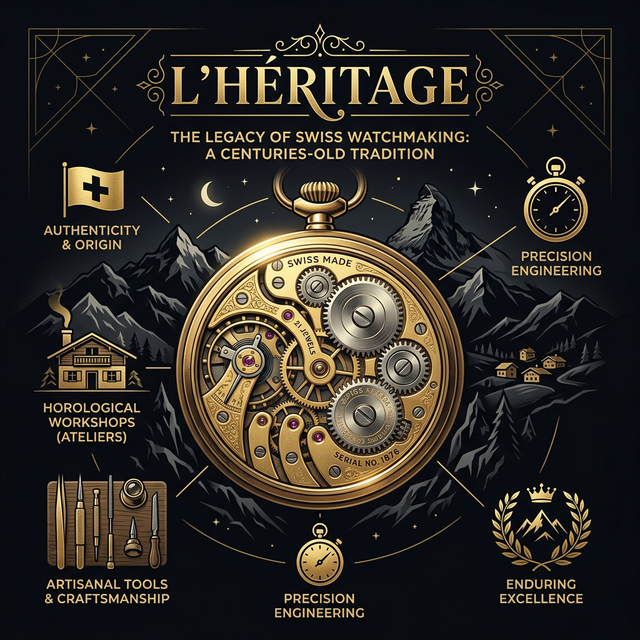
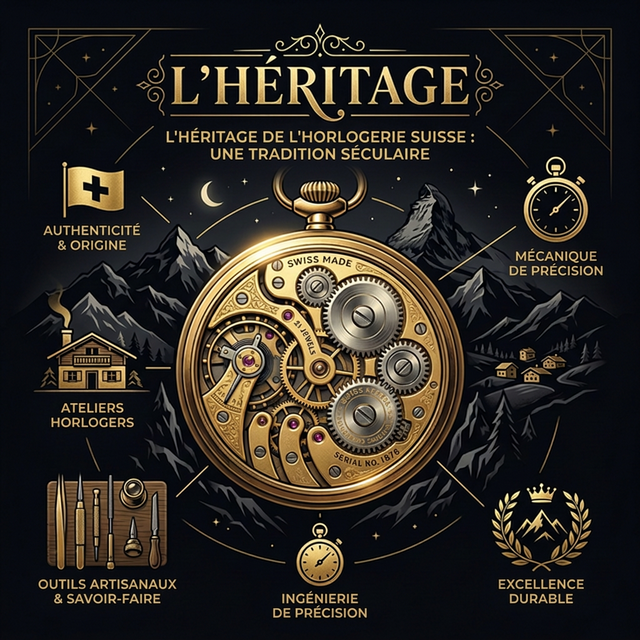
feat: ajout du bouton fermer, infographie fr ep1 et suppression liens ausha

diff --git a/src/data.js b/src/data.js
@@ -1,4 +1,4 @@
-// Auto-generated by sync-podcasts.cjs — 2026-03-09T06:12:18.926Z
+// Auto-generated by sync-podcasts.cjs — 2026-03-09T11:44:37.857Z
 export const podcastMeta = {
   "title": "Le Temps Maîtrisé - Excellence opérationnelle dans l'horlogerie suisse",
   "description": "\nBienvenue dans Le Temps Maîtrisé, le podcast qui explore les coulisses de l’excellence opérationnelle dans l’horlogerie suisse.\nChaque épisode vous plonge au cœur des ateliers, des méthodes Lean et des outils qualité qui façonnent la précision et la beauté du temps.\nDe la gestion du flux au standard de travail, en passant par le Kaizen et la digitalisation, découvrez comment les manufactures allient tradition, innovation et performance durable.\nUn guide pédagogique et inspirant pour tous ceux qui veulent comprendre comment se fabrique la maîtrise du temps.\nHébergé par Ausha. Visitez ausha.co/fr/politique-de-confidentialite pour plus d'informations.",
@@ -13,9 +13,8 @@ export const podcasts = [
     "title": "Épisode 1 – L’héritage de l’horlogerie suisse",
     "date": "Thu, 30 Oct 2025 18:16:23 +0000",
     "audioUrl": "https://audio.ausha.co/LjDL5C9kxN85.mp3?t=1762375076",
-    "description": "Le Temps Maîtrisé - une série de Christophe Fournier dédiée à l'excellence opérationnelle dans l'horlogerie suisse. Chaque épisode explore les outils du Lean, la qualité et la précision, appliqués à un univers où le temps se mesure au micron.\n\n\nUn podcast pour celles et ceux qui veulent comprendre comment tradition et innovation se conjuguent dans la quête du mouvement parfait.\n\nHébergé par Ausha. Visitez ausha.co/politique-de-confidentialite pour plus d'informations.",
+    "description": "Dans cet épisode introductif, nous explorons comment les valeurs historiques de la haute horlogerie suisse posent les bases de l'excellence opérationnelle moderne.",
     "duration": "14:24",
-    "link": "https://podcast.ausha.co/excellence-operationnelle/new-episode-of-10-30-7-13-pm",
     "image": "/infographics/ep1.png",
     "keywords": [
       "temps",
@@ -40,9 +39,8 @@ export const podcasts = [
     "title": "Épisode 2 : Qu’est-ce que l’excellence opérationnelle ?",
     "date": "Fri, 31 Oct 2025 14:54:34 +0000",
     "audioUrl": "https://audio.ausha.co/aO1X5Uxpjna1.mp3?t=1762507980",
-    "description": "Le Temps Maîtrisé - une série de Christophe Fournier dédiée à l'excellence opérationnelle dans l'horlogerie suisse. Chaque épisode explore les outils du Lean, la qualité et la précision, appliqués à un univers où le temps se mesure au micron.\n\n\nUn podcast pour celles et ceux qui veulent comprendre comment tradition et innovation se conjuguent dans la quête du mouvement parfait.\n\nHébergé par Ausha. Visitez ausha.co/politique-de-confidentialite pour plus d'informations.",
+    "description": "Qu'est-ce que l'excellence opérationnelle ? Découvrez les fondamentaux de cette philosophie visant l'amélioration continue et la maximisation de la valeur.",
     "duration": "16:49",
-    "link": "https://podcast.ausha.co/excellence-operationnelle/episode-2-qu-est-ce-que-l-excellence-operationnelle",
     "image": "/infographics/ep2.png",
     "keywords": [
       "temps",
@@ -67,9 +65,8 @@ export const podcasts = [
     "title": "Épisode 3 : La chasse au gaspillage – les 7 mudas",
     "date": "Fri, 31 Oct 2025 14:56:14 +0000",
     "audioUrl": "https://audio.ausha.co/ewZLXIppl7ZV.mp3?t=1763466071",
-    "description": "Le Temps Maîtrisé - une série de Christophe Fournier dédiée à l'excellence opérationnelle dans l'horlogerie suisse. Chaque épisode explore les outils du Lean, la qualité et la précision, appliqués à un univers où le temps se mesure au micron.\n\n\nUn podcast pour celles et ceux qui veulent comprendre comment tradition et innovation se conjuguent dans la quête du mouvement parfait.\n\nHébergé par Ausha. Visitez ausha.co/politique-de-confidentialite pour plus d'informations.",
+    "description": "Découvrez les 7 Mudas du Lean : les différentes formes de gaspillages dans les processus et comment les chasser efficacement dans un atelier.",
     "duration": "12:53",
-    "link": "https://podcast.ausha.co/excellence-operationnelle/episode-3-la-chasse-au-gaspillage-les-7-mudas",
     "image": "/infographics/ep3.png",
     "keywords": [
       "temps",
@@ -94,9 +91,8 @@ export const podcasts = [
     "title": "Épisode 4 : Le 5S – l’ordre qui libère",
     "date": "Fri, 31 Oct 2025 15:11:49 +0000",
     "audioUrl": "https://audio.ausha.co/J2NYaij31OxV.mp3?t=1764332841",
-    "description": "Le Temps Maîtrisé - une série de Christophe Fournier dédiée à l'excellence opérationnelle dans l'horlogerie suisse. Chaque épisode explore les outils du Lean, la qualité et la précision, appliqués à un univers où le temps se mesure au micron.\n\n\nUn podcast pour celles et ceux qui veulent comprendre comment tradition et innovation se conjuguent dans la quête du mouvement parfait.\n\nHébergé par Ausha. Visitez ausha.co/politique-de-confidentialite pour plus d'informations.",
+    "description": "Le 5S expliquée en détails : Trier, Ranger, Nettoyer, Standardiser, Respecter. Comment un atelier en ordre libère l'esprit et augmente la productivité.",
     "duration": "16:52",
-    "link": "https://podcast.ausha.co/excellence-operationnelle/episode-4-le-5s-l-ordre-qui-libere",
     "image": "/infographics/ep4.png",
     "keywords": [
       "temps",
@@ -121,9 +117,8 @@ export const podcasts = [
     "title": "Épisode 5 : Le standard de travail – la qualité répétable",
     "date": "Fri, 31 Oct 2025 15:13:33 +0000",
     "audioUrl": "https://audio.ausha.co/3mV5ZFMGvQp7.mp3?t=1761923623",
-    "description": "Le Temps Maîtrisé - une série de Christophe Fournier dédiée à l'excellence opérationnelle dans l'horlogerie suisse. Chaque épisode explore les outils du Lean, la qualité et la précision, appliqués à un univers où le temps se mesure au micron.\n\n\nUn podcast pour celles et ceux qui veulent comprendre comment tradition et innovation se conjuguent dans la quête du mouvement parfait.\n\nHébergé par Ausha. Visitez ausha.co/politique-de-confidentialite pour plus d'informations.",
+    "description": "Le standard de travail est le point de départ de toute amélioration. Comprenez pourquoi documenter la meilleure pratique actuelle garantit une qualité répétable.",
     "duration": "13:57",
-    "link": "https://podcast.ausha.co/excellence-operationnelle/episode-5-le-standard-de-travail-la-qualite-repetable",
     "image": "/infographics/ep5.png",
     "keywords": [
       "temps",
@@ -148,9 +143,8 @@ export const podcasts = [
     "title": "Épisode 6 : Le management visuel – voir pour mieux comprendre",
     "date": "Fri, 31 Oct 2025 15:22:06 +0000",
     "audioUrl": "https://audio.ausha.co/YDvz1I88VQWk.mp3?t=1761924140",
-    "description": "Le Temps Maîtrisé - une série de Christophe Fournier dédiée à l'excellence opérationnelle dans l'horlogerie suisse. Chaque épisode explore les outils du Lean, la qualité et la précision, appliqués à un univers où le temps se mesure au micron.\n\n\nUn podcast pour celles et ceux qui veulent comprendre comment tradition et innovation se conjuguent dans la quête du mouvement parfait.\n\nHébergé par Ausha. Visitez ausha.co/politique-de-confidentialite pour plus d'informations.",
+    "description": "Le management visuel permet d'identifier les problèmes en un coup d'œil. Découvrez comment rendre l'information accessible et évidente sur le terrain.",
     "duration": "16:41",
-    "link": "https://podcast.ausha.co/excellence-operationnelle/episode-6-le-management-visuel-voir-pour-mieux-comprendre",
     "image": "/infographics/ep6.png",
     "keywords": [
       "temps",
@@ -175,9 +169,8 @@ export const podcasts = [
     "title": "Épisode 7 : Le Gemba – aller voir, écouter, comprendre",
     "date": "Fri, 31 Oct 2025 15:25:13 +0000",
     "audioUrl": "https://audio.ausha.co/PqxOXu28gmQG.mp3?t=1761924315",
-    "description": "Le Temps Maîtrisé - une série de Christophe Fournier dédiée à l'excellence opérationnelle dans l'horlogerie suisse. Chaque épisode explore les outils du Lean, la qualité et la précision, appliqués à un univers où le temps se mesure au micron.\n\n\nUn podcast pour celles et ceux qui veulent comprendre comment tradition et innovation se conjuguent dans la quête du mouvement parfait.\n\nHébergé par Ausha. Visitez ausha.co/politique-de-confidentialite pour plus d'informations.",
+    "description": "Le Gemba : là où la vraie valeur est créée. Plongez dans l'importance d'aller sur le terrain, d'écouter les opérateurs et de comprendre la réalité.",
     "duration": "12:36",
-    "link": "https://podcast.ausha.co/excellence-operationnelle/episode-7-le-gemba-aller-voir-ecouter-comprendre",
     "image": "/infographics/ep7.png",
     "keywords": [
       "temps",
@@ -202,9 +195,8 @@ export const podcasts = [
     "title": "Épisode 8 : Le Kaizen – les petites améliorations au quotidien",
     "date": "Fri, 31 Oct 2025 15:32:47 +0000",
     "audioUrl": "https://audio.ausha.co/A82aWIk4KrVr.mp3?t=1761924787",
-    "description": "Le Temps Maîtrisé - une série de Christophe Fournier dédiée à l'excellence opérationnelle dans l'horlogerie suisse. Chaque épisode explore les outils du Lean, la qualité et la précision, appliqués à un univers où le temps se mesure au micron.\n\n\nUn podcast pour celles et ceux qui veulent comprendre comment tradition et innovation se conjuguent dans la quête du mouvement parfait.\n\nHébergé par Ausha. Visitez ausha.co/politique-de-confidentialite pour plus d'informations.",
+    "description": "Le principe du Kaizen : comment de petites améliorations quotidiennes impliquant tout le monde peuvent transformer durablement une manufacture.",
     "duration": "13:27",
-    "link": "https://podcast.ausha.co/excellence-operationnelle/episode-8-le-kaizen-les-petites-ameliorations-au-quotidien",
     "image": "/infographics/ep8.png",
     "keywords": [
       "temps",
@@ -229,9 +221,8 @@ export const podcasts = [
     "title": "Épisode 9 : La résolution de problème – penser autrement",
     "date": "Fri, 31 Oct 2025 15:43:03 +0000",
     "audioUrl": "https://audio.ausha.co/nZw21cKZEDaG.mp3?t=1762506078",
-    "description": "Le Temps Maîtrisé - une série de Christophe Fournier dédiée à l'excellence opérationnelle dans l'horlogerie suisse. Chaque épisode explore les outils du Lean, la qualité et la précision, appliqués à un univers où le temps se mesure au micron.\n\n\nUn podcast pour celles et ceux qui veulent comprendre comment tradition et innovation se conjuguent dans la quête du mouvement parfait.\n\nHébergé par Ausha. Visitez ausha.co/politique-de-confidentialite pour plus d'informations.",
+    "description": "Les méthodes de résolution de problème : penser autrement pour s'attaquer aux causes racines plutôt qu'aux symptômes et éviter la récurrence.",
     "duration": "20:37",
-    "link": "https://podcast.ausha.co/excellence-operationnelle/episode-9-la-resolution-de-probleme-penser-autrement",
     "image": "/infographics/ep9.png",
     "keywords": [
       "temps",
@@ -256,9 +247,8 @@ export const podcasts = [
     "title": "Épisode 10 : Le takt time – équilibrer le rythme de production",
     "date": "Sat, 01 Nov 2025 09:26:56 +0000",
     "audioUrl": "https://audio.ausha.co/xAz3wsw0N6VE.mp3?t=1761989208",
-    "description": "Le Temps Maîtrisé - une série de Christophe Fournier dédiée à l'excellence opérationnelle dans l'horlogerie suisse. Chaque épisode explore les outils du Lean, la qualité et la précision, appliqués à un univers où le temps se mesure au micron.\n\n\nUn podcast pour celles et ceux qui veulent comprendre comment tradition et innovation se conjuguent dans la quête du mouvement parfait.\n\nHébergé par Ausha. Visitez ausha.co/politique-de-confidentialite pour plus d'informations.",
+    "description": "Le takt time est le chef d'orchestre de la production. Comprenez comment équilibrer le rythme de fabrication avec la demande client de manière fluide.",
     "duration": "17:20",
-    "link": "https://podcast.ausha.co/excellence-operationnelle/episode-10-le-takt-time-equilibrer-le-rythme-de-production",
     "image": "/infographics/ep10.png",
     "keywords": [
       "temps",
@@ -283,9 +273,8 @@ export const podcasts = [
     "title": "Épisode 11 : L’autonomation – détecter sans contrôle final",
     "date": "Sat, 01 Nov 2025 09:29:46 +0000",
     "audioUrl": "https://audio.ausha.co/Ggk0wu8gk458.mp3?t=1761989397",
-    "description": "Le Temps Maîtrisé - une série de Christophe Fournier dédiée à l'excellence opérationnelle dans l'horlogerie suisse. Chaque épisode explore les outils du Lean, la qualité et la précision, appliqués à un univers où le temps se mesure au micron.\n\n\nUn podcast pour celles et ceux qui veulent comprendre comment tradition et innovation se conjuguent dans la quête du mouvement parfait.\n\nHébergé par Ausha. Visitez ausha.co/politique-de-confidentialite pour plus d'informations.",
+    "description": "L'autonomation, ou Jidoka : comment donner aux machines (et aux humains) l'intelligence d'arrêter la production au moindre défaut pour intégrer la qualité.",
     "duration": "16:26",
-    "link": "https://podcast.ausha.co/excellence-operationnelle/episode-11-l-autonomation-detecter-sans-controle-final",
     "image": "/infographics/ep11.png",
     "keywords": [
       "temps",
@@ -310,9 +299,8 @@ export const podcasts = [
     "title": "Épisode 12 – Cultiver l’excellence : le lean à l’ère du digital et de l’IA",
     "date": "Sat, 01 Nov 2025 09:37:09 +0000",
     "audioUrl": "https://audio.ausha.co/zr84aIVvM8a6.mp3?t=1762725187",
-    "description": "Le Temps Maîtrisé - une série de Christophe Fournier dédiée à l'excellence opérationnelle dans l'horlogerie suisse. Chaque épisode explore les outils du Lean, la qualité et la précision, appliqués à un univers où le temps se mesure au micron.\n\n\nUn podcast pour celles et ceux qui veulent comprendre comment tradition et innovation se conjuguent dans la quête du mouvement parfait.\n\nHébergé par Ausha. Visitez ausha.co/politique-de-confidentialite pour plus d'informations.",
+    "description": "L'industrie 4.0 rencontre le Lean : comment les outils digitaux, l'IA et l'automatisation avancée propulsent l'excellence opérationnelle à un niveau supérieur.",
     "duration": "17:23",
-    "link": "https://podcast.ausha.co/excellence-operationnelle/episode-12-cultiver-l-excellence-le-lean-a-l-ere-du-digital-et-de-l-ia",
     "image": "/infographics/ep12.png",
     "keywords": [
       "temps",

diff --git a/src/components/PodcastCard.jsx b/src/components/PodcastCard.jsx
@@ -1,5 +1,5 @@
 import React from 'react';
-import { Play, Pause, CheckCircle, Clock, ExternalLink } from 'lucide-react';
+import { Play, Pause, CheckCircle, Clock } from 'lucide-react';
 
 export function PodcastCard({ podcast, isRead, isCurrentlyPlaying, onToggleRead, onPlay }) {
     return (
@@ -54,11 +54,7 @@ export function PodcastCard({ podcast, isRead, isCurrentlyPlaying, onToggleRead,
                     </button>
 
                     <div className="card-actions-right">
-                        {podcast.link && (
-                            <a href={podcast.link} target="_blank" rel="noopener noreferrer" className="btn btn-secondary btn-icon" title="Voir sur Ausha">
-                                <ExternalLink size={16} />
-                            </a>
-                        )}
+
                         <button
                             className={`btn btn-secondary btn-icon ${isRead ? 'btn--active' : ''}`}
                             onClick={() => onToggleRead(podcast.id)}

diff --git a/src/components/AudioPlayer.jsx b/src/components/AudioPlayer.jsx
@@ -1,7 +1,7 @@
 import React, { useState, useEffect } from 'react';
-import { Play, Pause, SkipForward, SkipBack, Volume2 } from 'lucide-react';
+import { Play, Pause, SkipForward, SkipBack, Volume2, X } from 'lucide-react';
 
-export function AudioPlayer({ podcast, isPlaying, audioRef, onPlayPause, onPrev, onNext }) {
+export function AudioPlayer({ podcast, isPlaying, audioRef, onPlayPause, onPrev, onNext, onClose }) {
     const [currentTime, setCurrentTime] = useState(0);
     const [duration, setDuration] = useState(0);
 
@@ -79,6 +79,10 @@ export function AudioPlayer({ podcast, isPlaying, audioRef, onPlayPause, onPrev,
             <div className="player-volume">
                 <Volume2 size={18} color="var(--text-secondary)" />
             </div>
+
+            <button className="player-btn close-player-btn" onClick={onClose} aria-label="Fermer le lecteur" title="Fermer">
+                <X size={20} color="var(--text-secondary)" />
+            </button>
         </div>
     );
 }

diff --git a/src/App.jsx b/src/App.jsx
@@ -162,6 +162,14 @@ function App() {
           }}
           onPrev={playPrev}
           onNext={playNext}
+          onClose={() => {
+            if (audioRef.current) {
+              audioRef.current.pause();
+              audioRef.current.currentTime = 0;
+            }
+            setIsPlaying(false);
+            setCurrentPodcast(null);
+          }}
         />
       )}
     </div>
